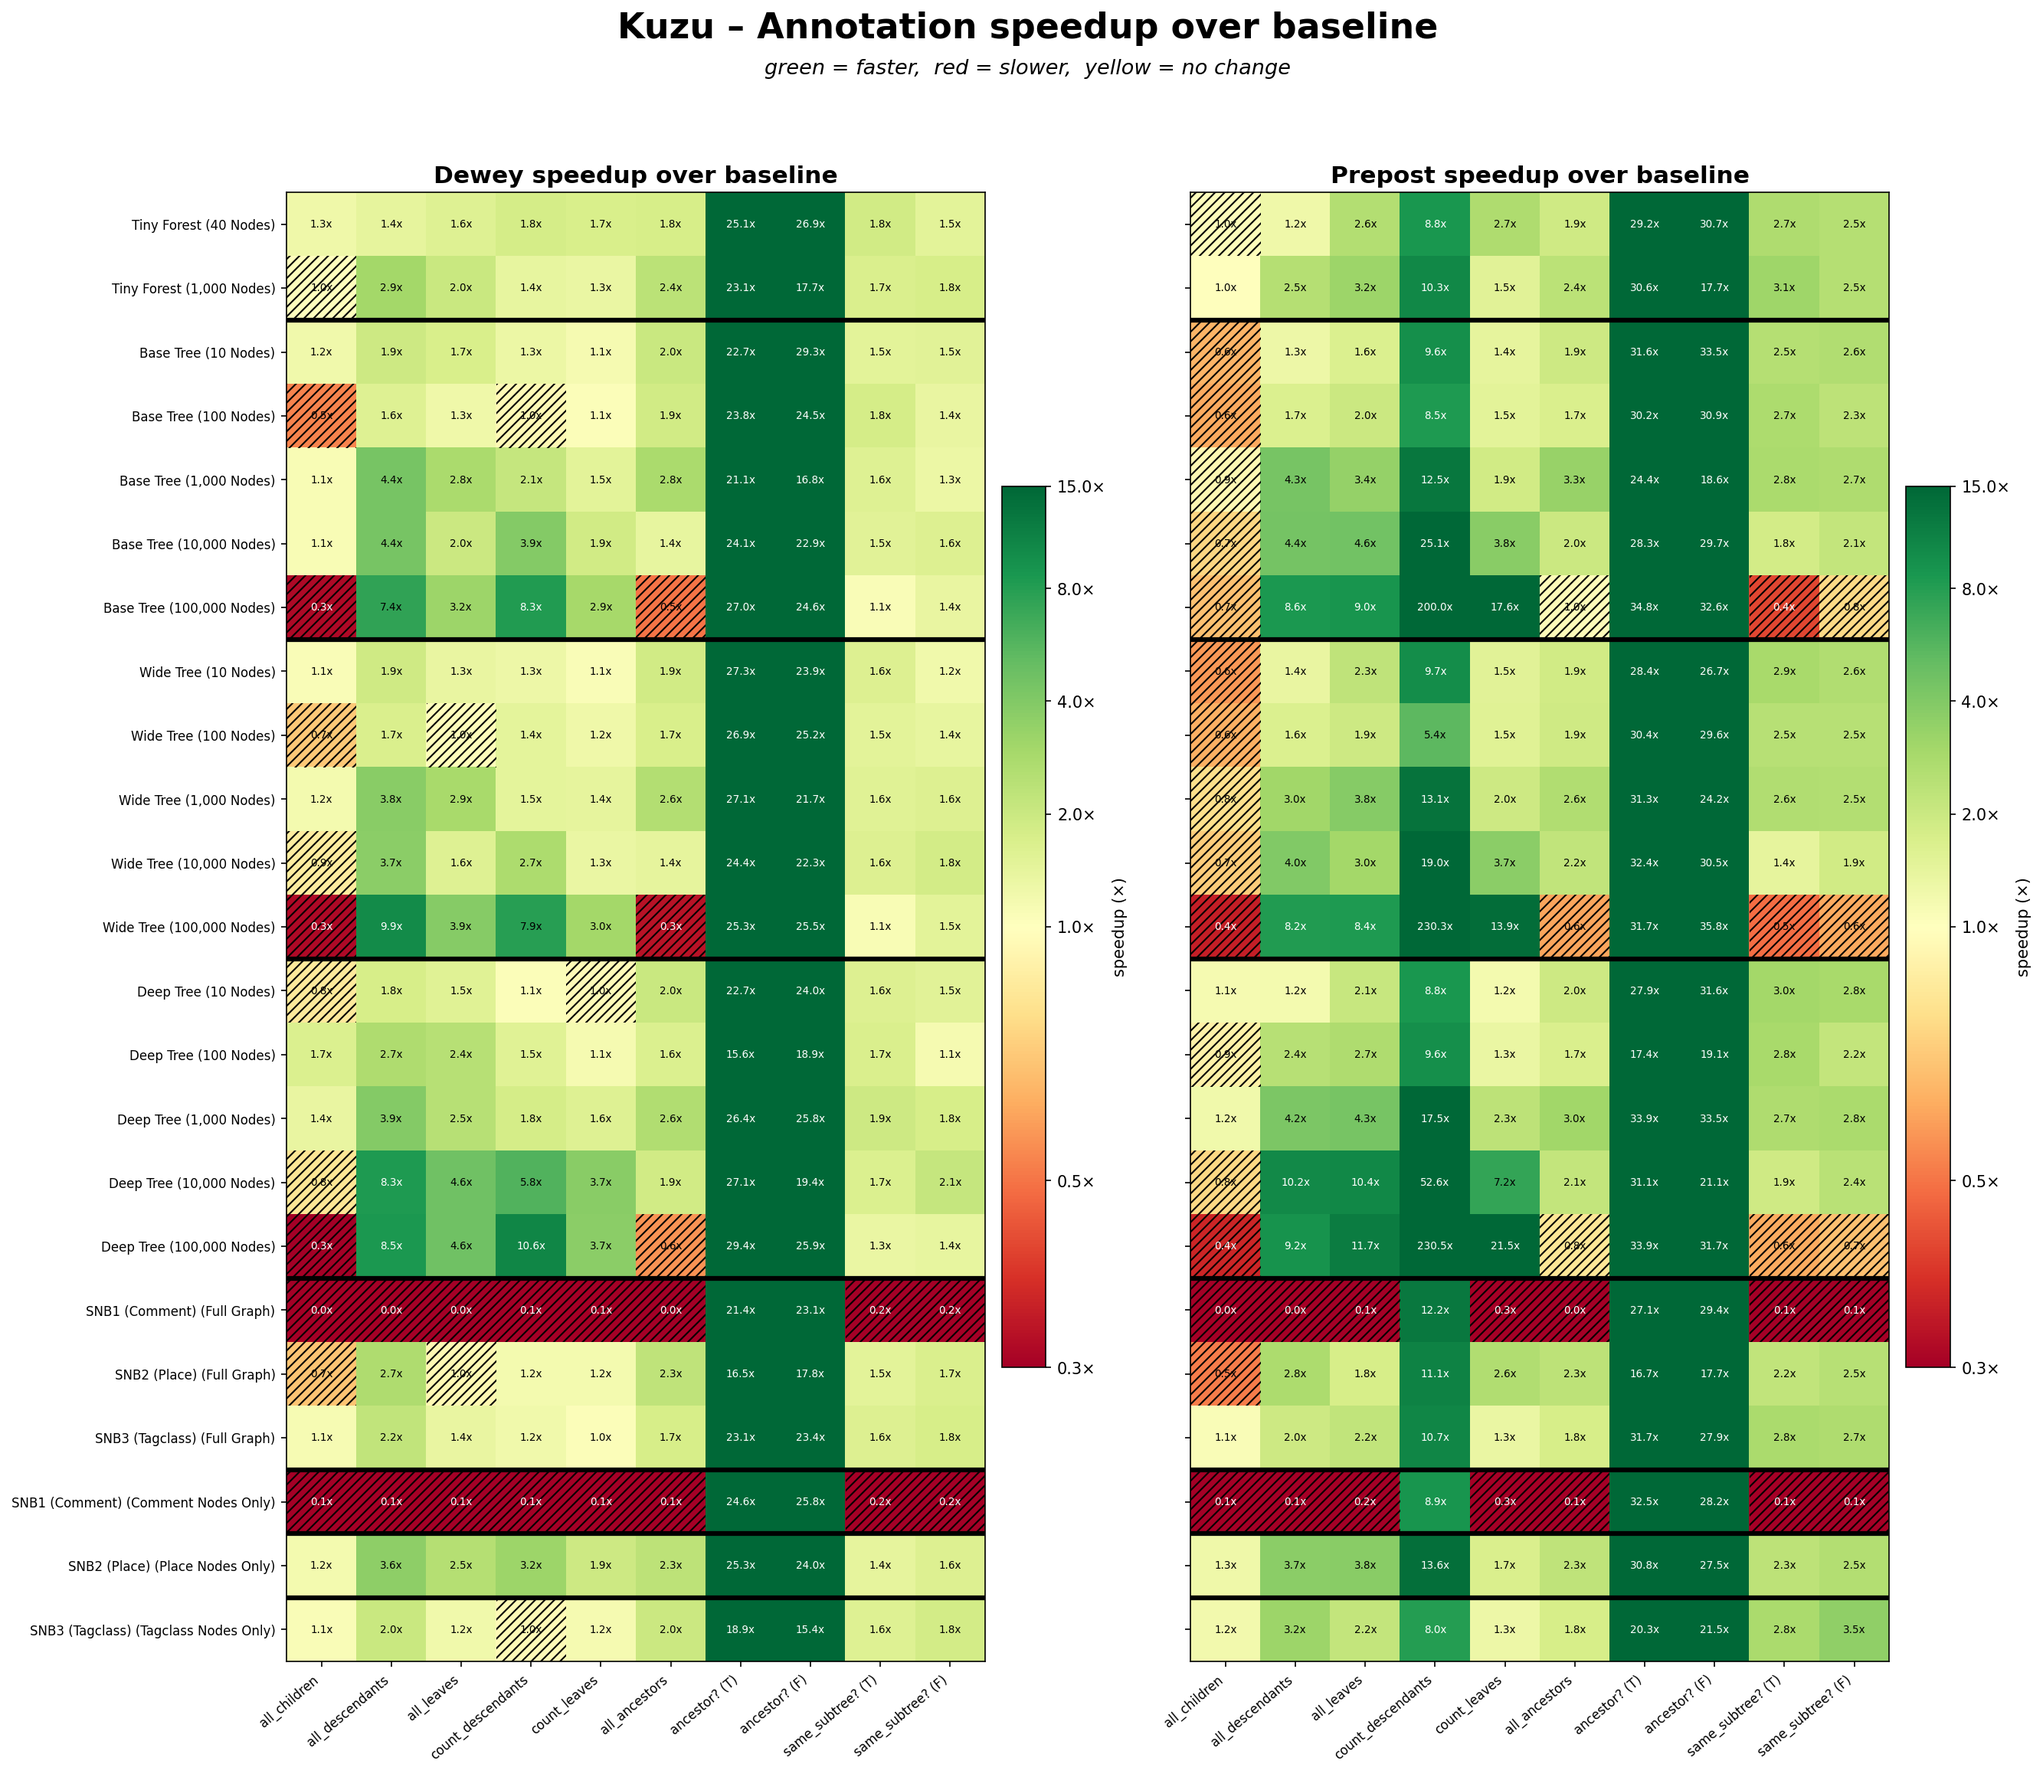
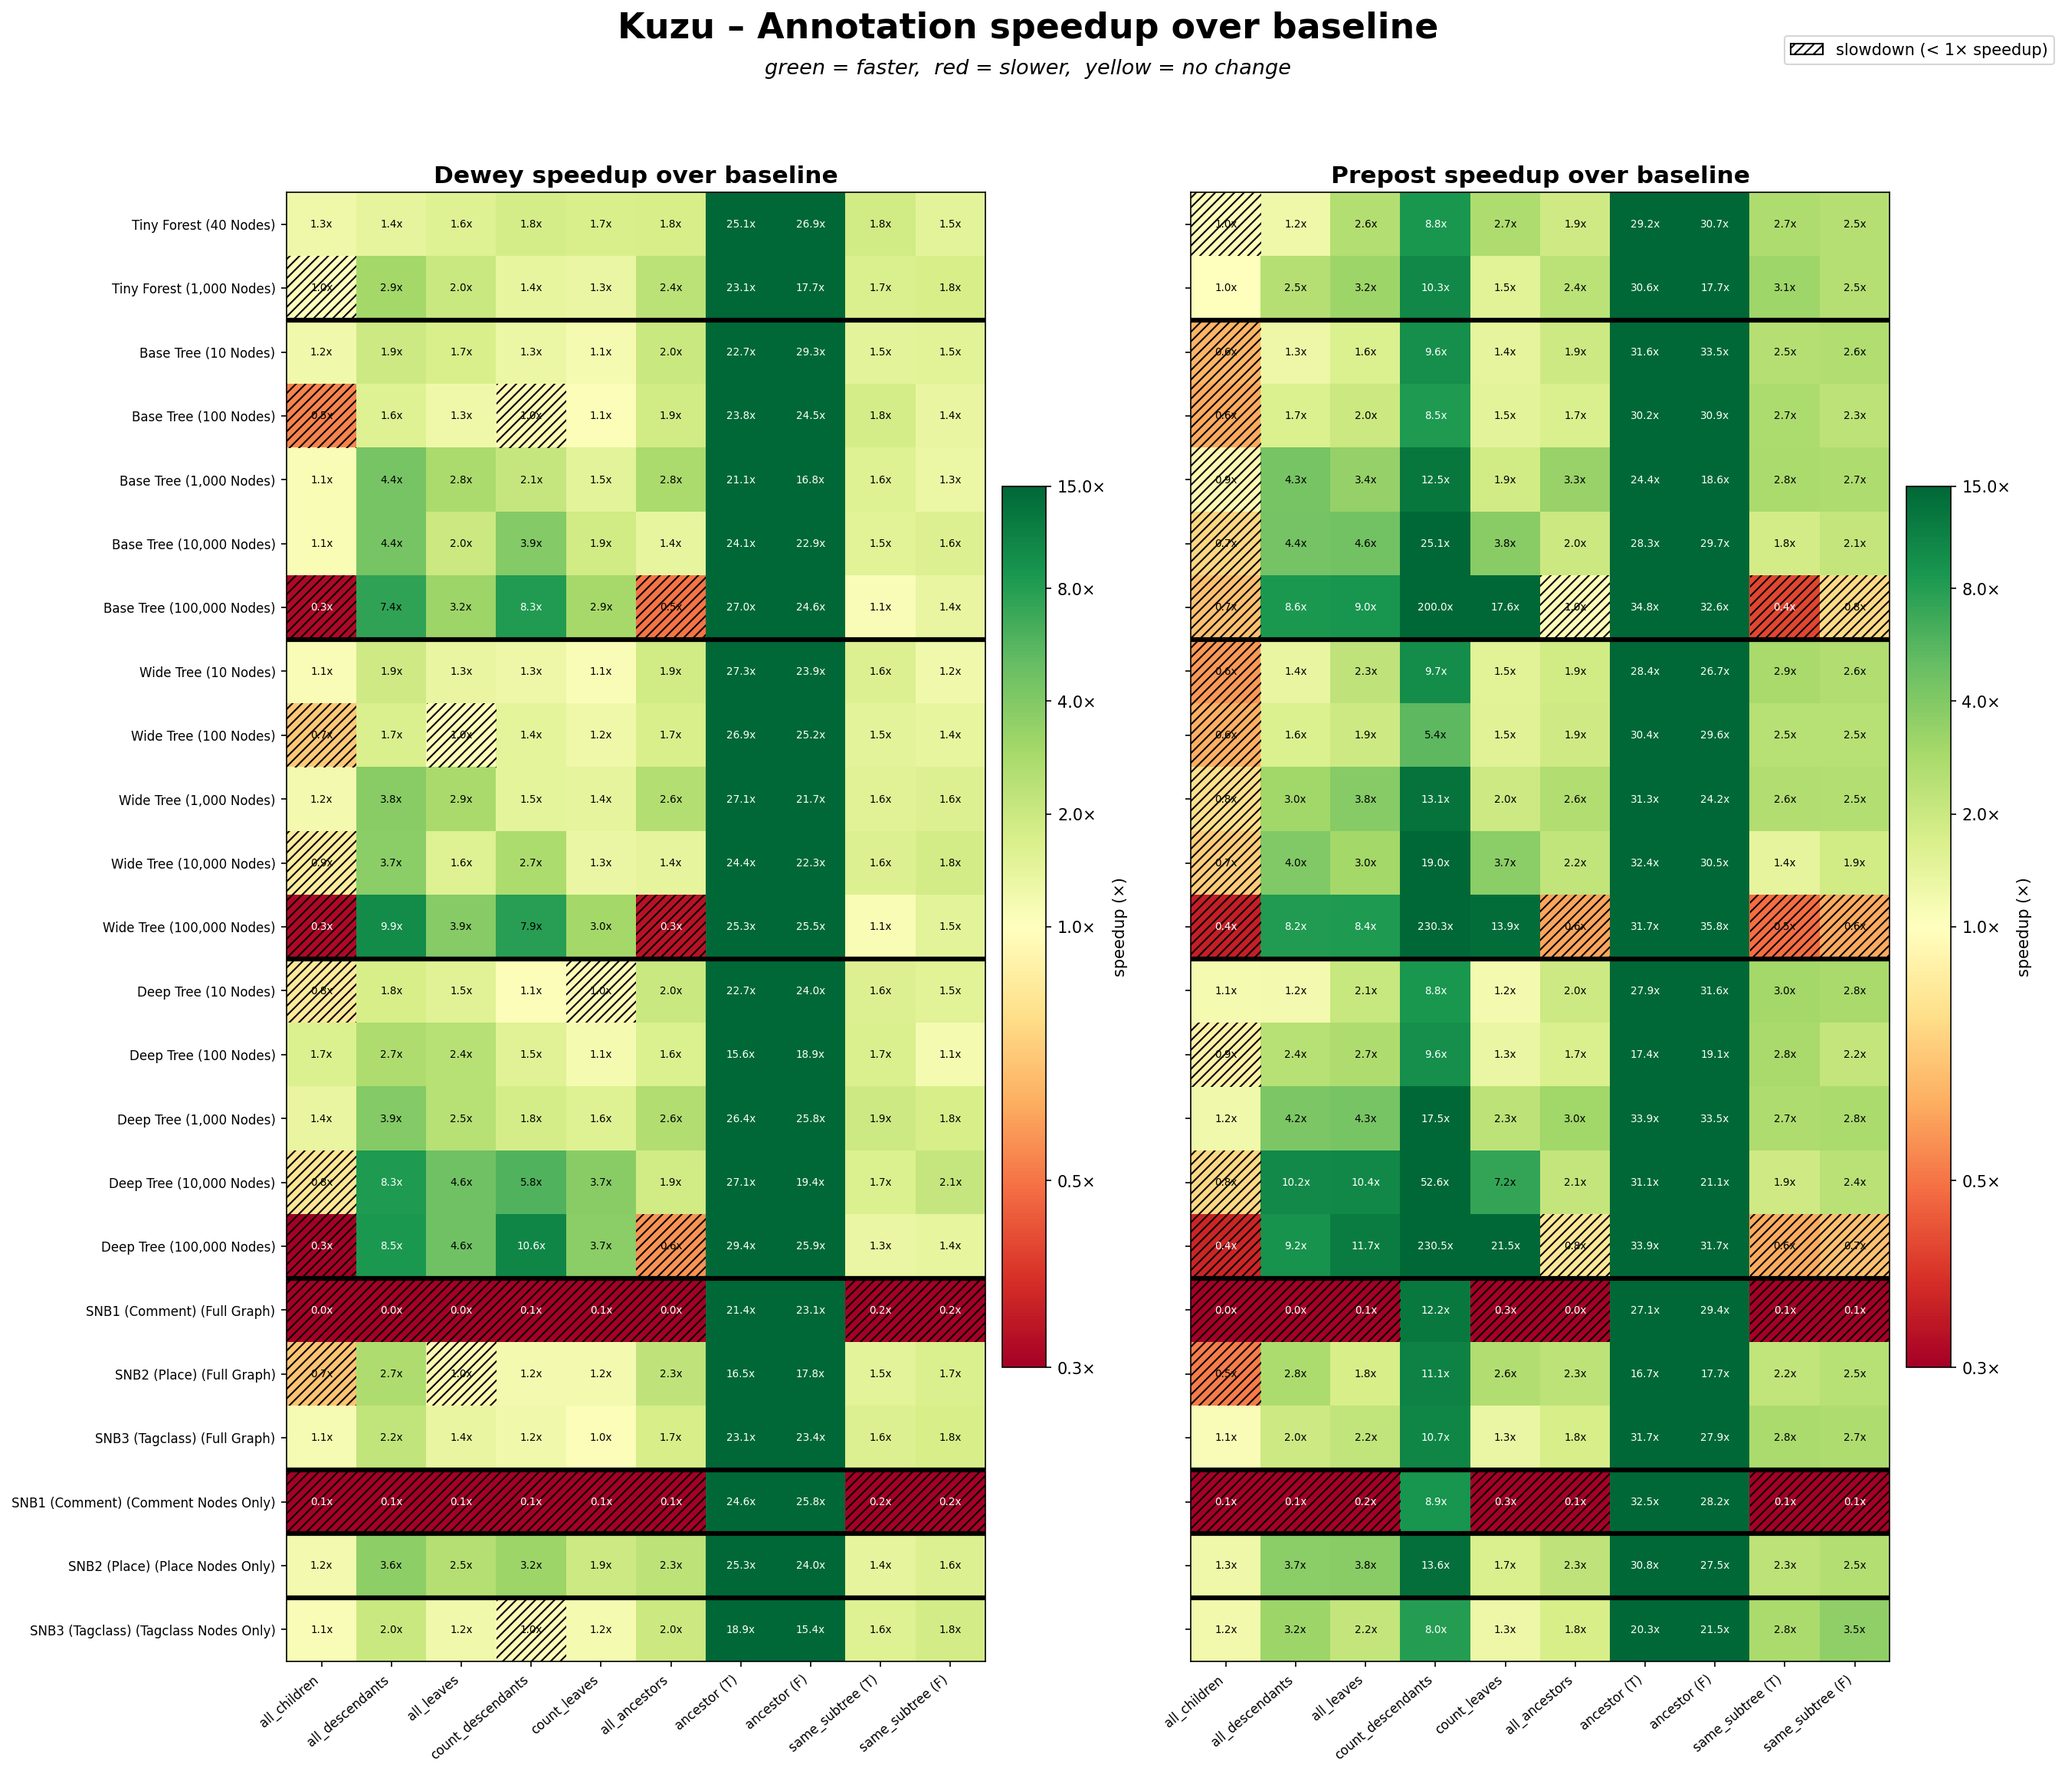
updated heatmap

diff --git a/scripts/kuzu_neo4j_report.py b/scripts/kuzu_neo4j_report.py
@@ -22,7 +22,7 @@ import numpy as np
 import pandas as pd
 import matplotlib.pyplot as plt
 import matplotlib.colors as mcolors
-from matplotlib.patches import Rectangle
+from matplotlib.patches import Rectangle, Patch
 
 # ── Constants ──────────────────────────────────────────────────────────────────
 
@@ -68,10 +68,10 @@ QUERY_LABELS = {
     "count_descendants":        "count_descendants",
     "count_leaves":             "count_leaves",
     "all_ancestors":            "all_ancestors",
-    "check_if_ancestor_true":   "ancestor? (T)",
-    "check_if_ancestor_false":  "ancestor? (F)",
-    "check_same_subtree_true":  "same_subtree? (T)",
-    "check_same_subtree_false": "same_subtree? (F)",
+    "check_if_ancestor_true":   "ancestor (T)",
+    "check_if_ancestor_false":  "ancestor (F)",
+    "check_same_subtree_true":  "same_subtree (T)",
+    "check_same_subtree_false": "same_subtree (F)",
 }
 
 _Y_AXIS_ORDER = {name: i for i, name in enumerate(Y_AXIS_LABELS)}
@@ -204,6 +204,10 @@ def plot_speedup_heatmap(df: pd.DataFrame, output_dir: Path, gdms: str = "Kuzu")
                  fontsize=22, y=1.05, fontweight="bold")
     fig.text(0.5, 1.01, "green = faster,  red = slower,  yellow = no change",
              ha="center", va="bottom", fontsize=13, style="italic")
+
+    legend_handle = Patch(fill=False, hatch="////", edgecolor="black", label="slowdown (< 1× speedup)")
+    fig.legend(handles=[legend_handle], loc="upper right", fontsize=10,
+               bbox_to_anchor=(1.0, 1.04), framealpha=0.8)
     plt.tight_layout()
 
     out = output_dir / "speedup_heatmap.png"
